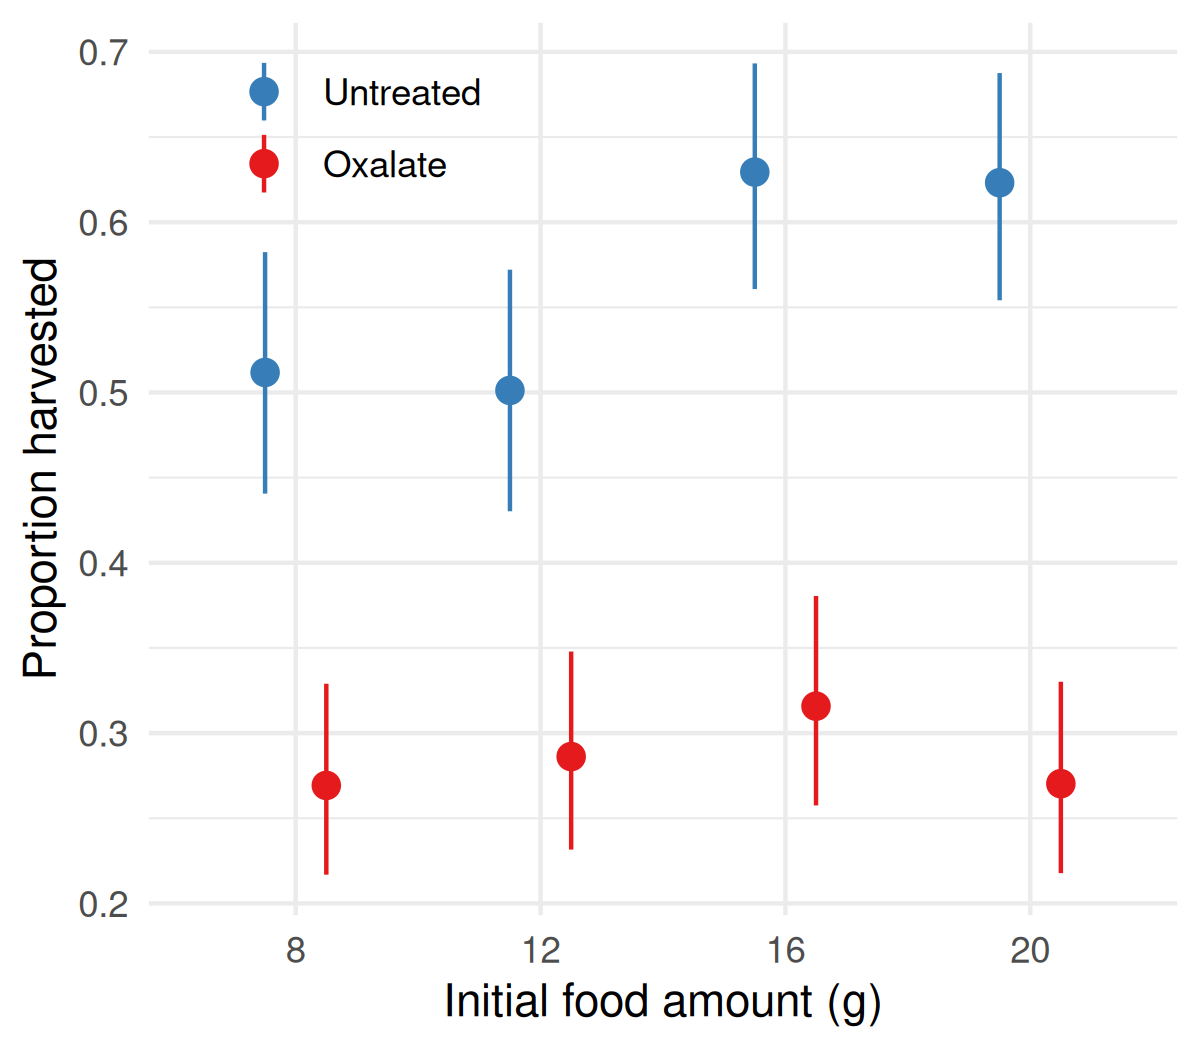
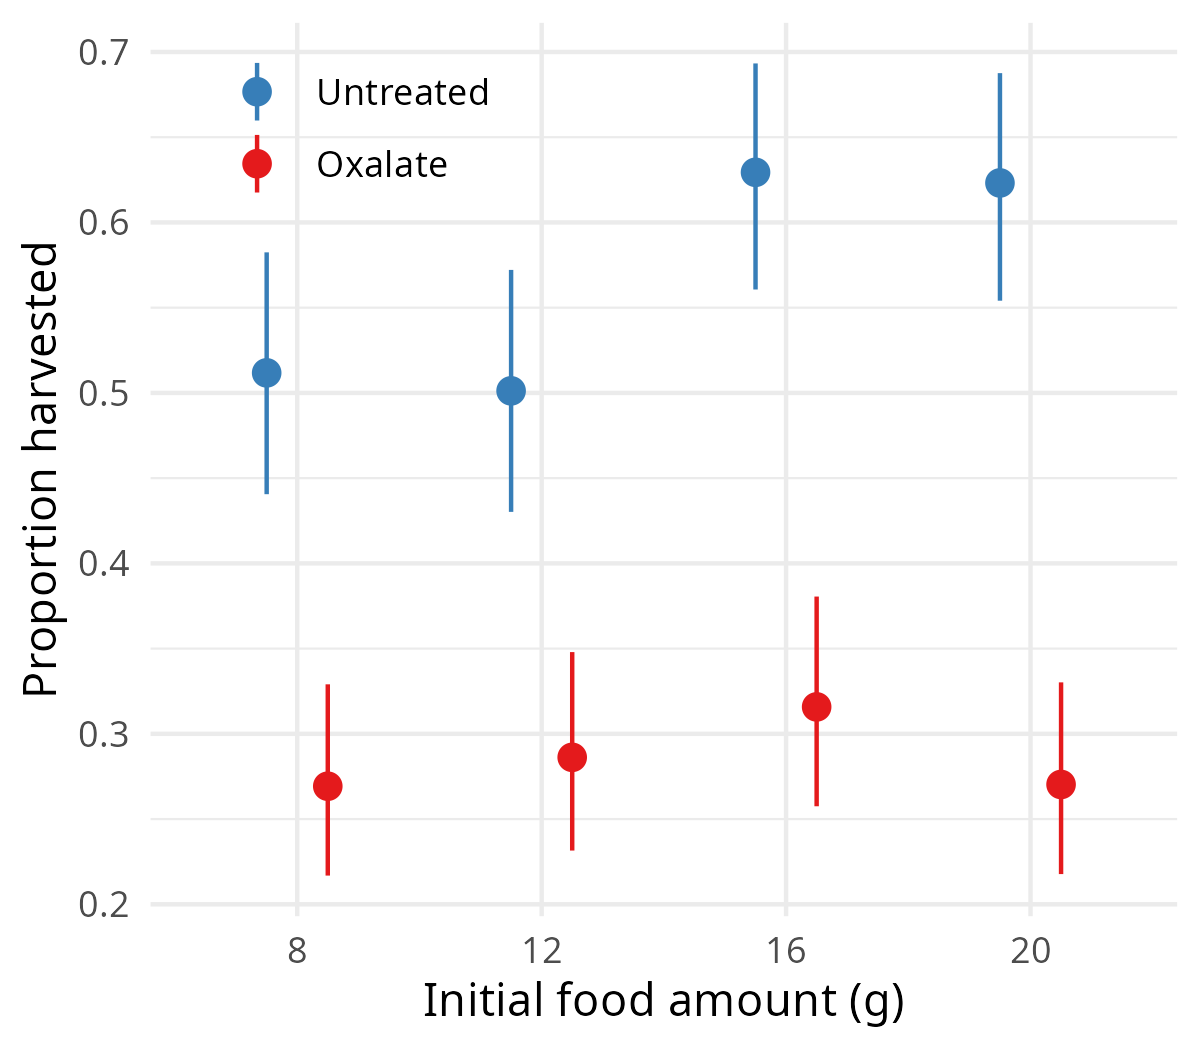
Add night as a crossed random effect in all models
- Switch from nlme::lme to lme4::lmer with (1|Station) + (1|Day)
- Use data.frame prediction grids so AICcmodavg::predictSE works
  with merMod fits
- Regenerate figures and update README p-values and analysis text

diff --git a/README.md b/README.md
@@ -24,7 +24,7 @@ The design closely follows [Emerson et al. (2012)](https://doi.org/10.1007/s0044
 
 ### Analysis
 
-The response variable throughout is the proportion of seeds harvested (1 − GUD / initial amount), analyzed on the logit scale with a random effect of station. My original analysis plan also treated night as a random effect; the current scripts don't. Within-patch selectivity uses Manly's index (`Functions.R`): 0.5 means that seeds were taken in proportion to their availability, and values above 0.5 mean that untreated seeds were preferred.
+The response variable throughout is the proportion of seeds harvested (1 − GUD / initial amount), analyzed on the logit scale with linear mixed models (`lme4`). Station and night are crossed random effects, because every station received every treatment on every night. p-values are Wald chi-square tests from `car::Anova`. Within-patch selectivity uses Manly's index (`Functions.R`): 0.5 means that seeds were taken in proportion to their availability, and values above 0.5 mean that untreated seeds were preferred.
 
 ### Theory
 
@@ -39,8 +39,8 @@ These experiments were framed around a forager with a fixed *quitting harvest ra
 Each tray had 10 g of a background food and 0, 2, 4, or 6 g of an associational food.
 
 - Adding untreated seeds to oxalate trays increased harvest of the oxalate seeds from about 0.49 to 0.63 (p < 0.001). That is shared doom.
-- Adding oxalate seeds to untreated trays had no effect on harvest of the untreated seeds, which stayed near 0.41 (p = 0.53). That is no refuge.
-- Offering a dish of 12 g of extra oxalate seeds at each station nudged the refuge effect in the predicted direction, but not significantly (p = 0.49).
+- Adding oxalate seeds to untreated trays had no effect on harvest of the untreated seeds, which stayed near 0.41 (p = 0.36). That is no refuge.
+- Offering a dish of 12 g of extra oxalate seeds at each station nudged the refuge effect in the predicted direction, but not significantly (p = 0.21).
 
 ![](figures/AR_SD.png)
 
@@ -59,11 +59,11 @@ The difference between the two foods is marginal (food × amount interaction, p 
 
 If the rabbits judge a patch by how much good food it holds, the asymmetry follows. Adding untreated seeds makes a patch worth working longer, and the oxalate seeds are caught up in that extra effort. Adding oxalate seeds doesn't make the patch any less worth working, so the untreated seeds gain nothing.
 
-The composition × density experiment points the same way. It crossed total amount (8 g vs. 16 g) with oxalate share (25% vs. 75%). If rabbits used a fixed quitting harvest rate for both foods, amount and share should have had independent effects. Instead, doubling the total increased harvest when 25% of the seeds were oxalate, but not when 75% were. The interaction is not significant, so treat this as suggestive.
+The composition × density experiment points the same way. It crossed total amount (8 g vs. 16 g) with oxalate share (25% vs. 75%). If rabbits used a fixed quitting harvest rate for both foods, amount and share should have had independent effects. Doubling the total increased harvest of both foods overall (p ≈ 0.04). For untreated seeds, though, the increase came almost entirely from trays where 25% of the seeds were oxalate (0.67 → 0.77), with little change when 75% were oxalate (0.59 → 0.60). That interaction is marginal (p = 0.08), so treat it as suggestive.
 
 ![](figures/CompDensity.png)
 
-When the second food is also valuable (oats instead of oxalate seeds), adding it increased harvest of an oat background (p < 0.001). The trend was similar but not significant for a sunflower background (p = 0.14).
+When the second food is also valuable (oats instead of oxalate seeds), adding it increased harvest of an oat background (p < 0.001). The trend was similar but weaker for a sunflower background (p = 0.06).
 
 ![](figures/AC.png)
 
